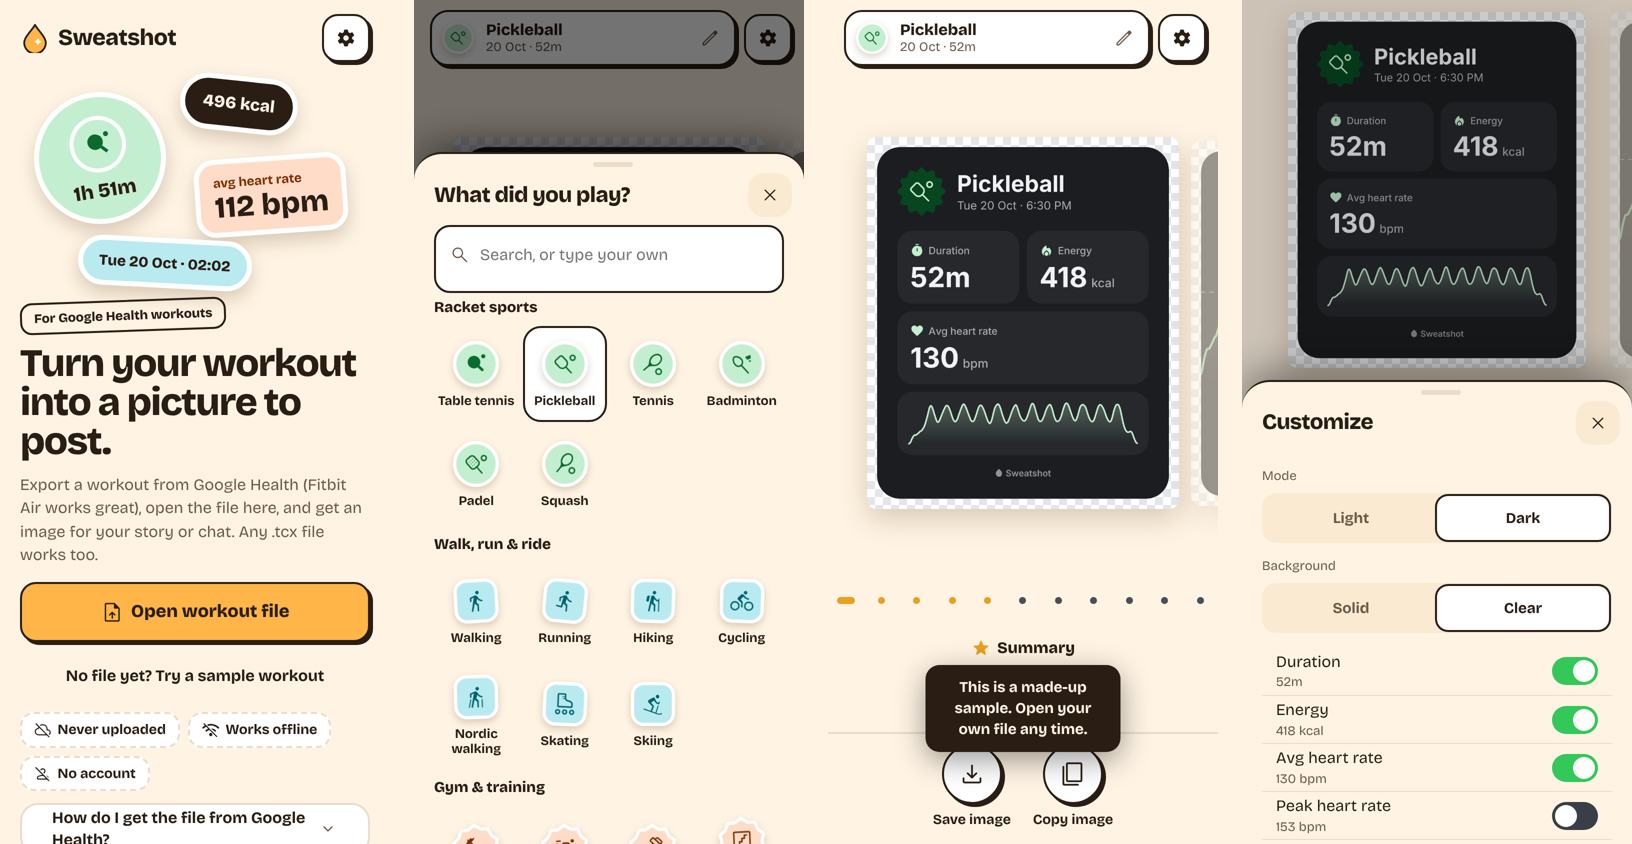
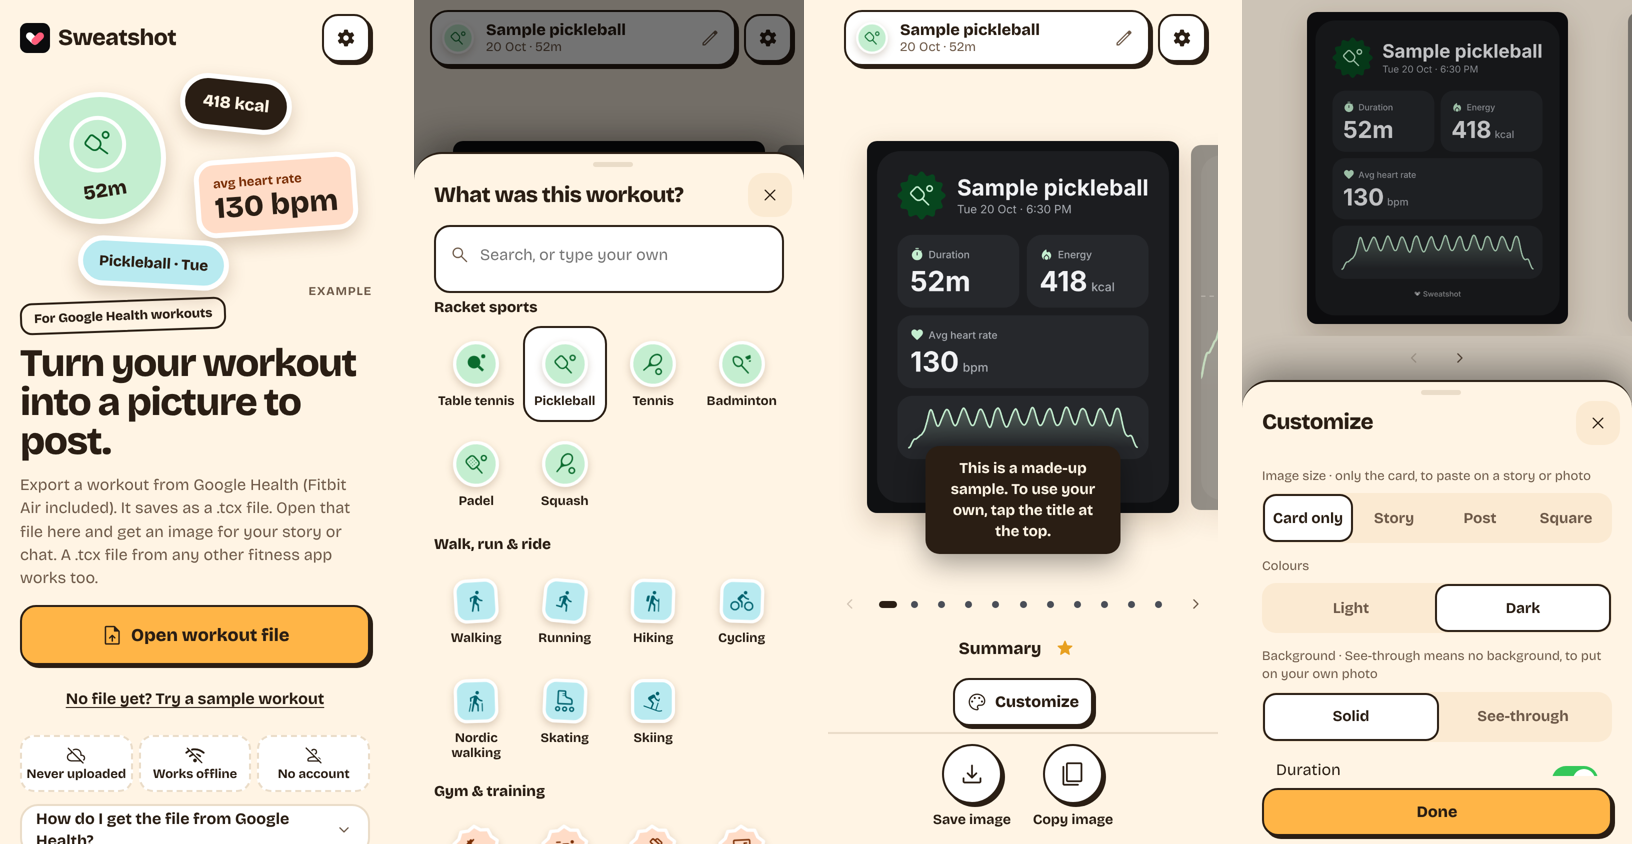
Fix collapsed page dots; README screenshots from the final build (sample data, new mark)
Claude-Session: https://claude.ai/code/session_01U9u7YdTgxdgb6z5duwsvjE

diff --git a/src/styles.css b/src/styles.css
@@ -2245,3 +2245,11 @@ button:disabled {
   background: rgba(28, 22, 18, 0.95);
   color: #fff4e4;
 }
+
+/* The dots take the space between the arrows (they shrink to zero otherwise). */
+.dots-row .dots {
+  flex: 1 1 auto;
+  min-width: 0;
+  max-width: 440px;
+  padding: 0;
+}
